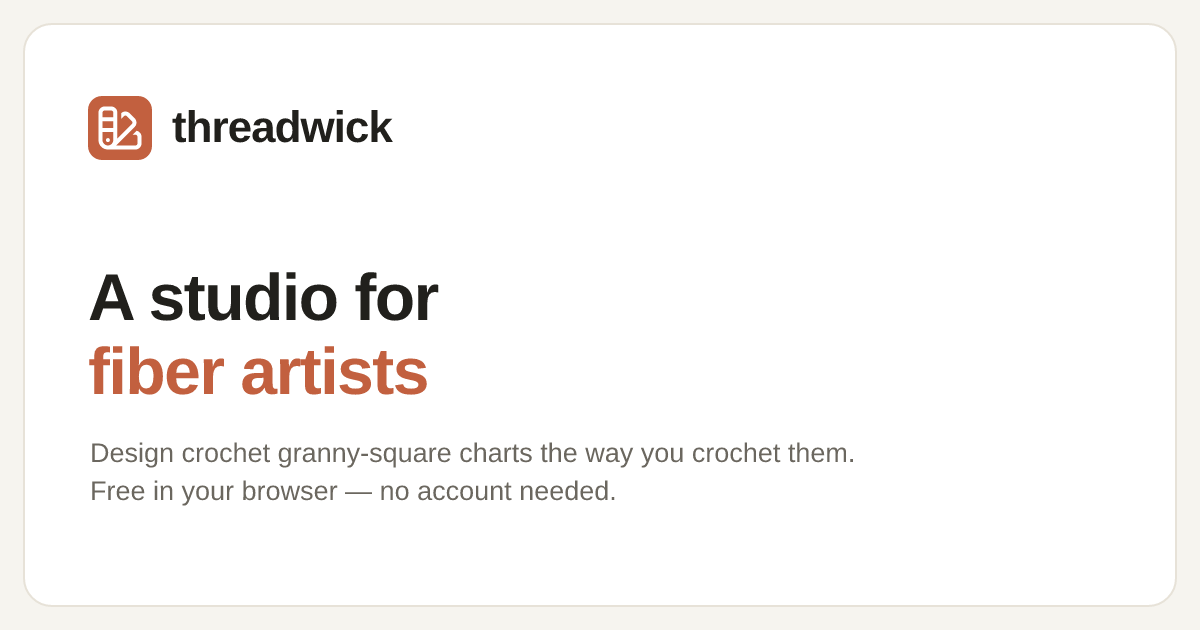
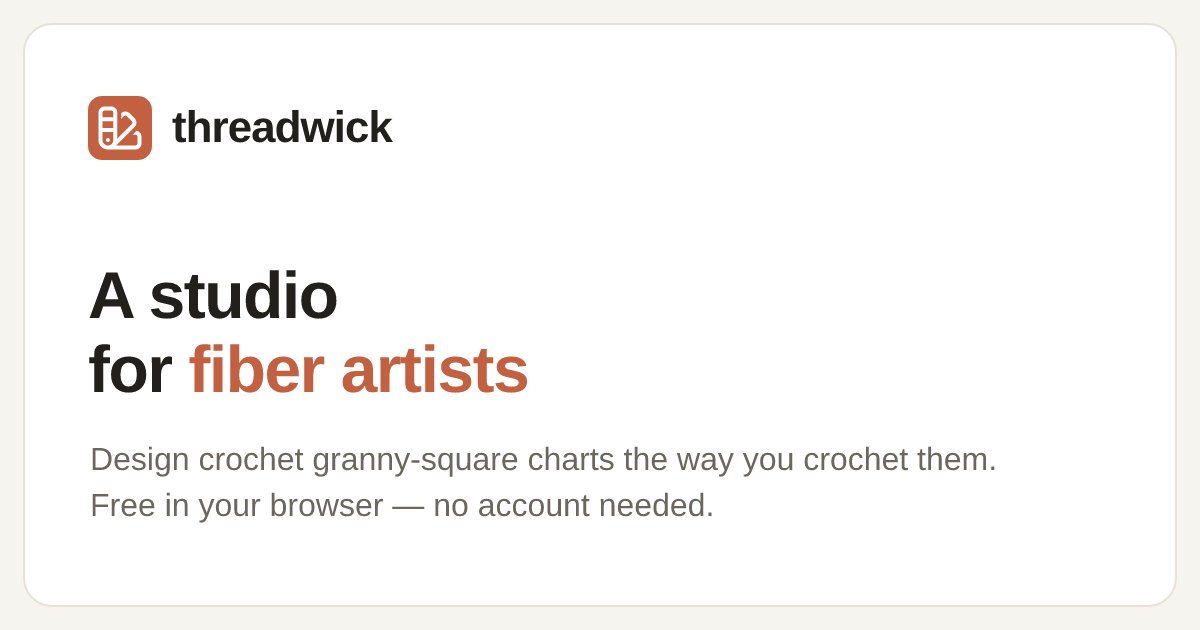
Left-align hero; refine social card headline + subtext
- Hero: switch from centered to left-aligned and bump the subcopy size for
  readability on small screens.
- Social card: move 'for' onto the 'fiber artists' line (kept black) and
  enlarge the supporting copy; regenerate og-image.png.

diff --git a/src/sections/Hero.tsx b/src/sections/Hero.tsx
@@ -8,68 +8,69 @@ const { Title, Paragraph } = Typography;
 export function Hero() {
   return (
     <section aria-labelledby="hero-title" className="tw-section">
-      <div className="tw-container" style={{ maxWidth: 820, textAlign: 'center' }}>
-        <p
-          style={{
-            margin: '0 0 14px',
-            textTransform: 'uppercase',
-            letterSpacing: '0.14em',
-            fontSize: 13,
-            fontWeight: 600,
-            color: colors.primaryActive,
-          }}
-        >
-          A studio for fiber artists
-        </p>
-
-        <Title
-          id="hero-title"
-          level={1}
-          style={{
-            margin: 0,
-            fontSize: 'clamp(36px, 6.5vw, 60px)',
-            lineHeight: 1.04,
-            letterSpacing: '-0.02em',
-          }}
-        >
-          Design your stitches the way you make them
-        </Title>
-
-        <Paragraph
-          style={{
-            margin: '20px auto 0',
-            maxWidth: 600,
-            fontSize: 'clamp(16px, 1.9vw, 19px)',
-            color: colors.textSecondary,
-          }}
-        >
-          Threadwick Studio is where you chart your designs stitch by stitch — and keep every project’s
-          patterns, yarns, links and notes together in one tidy place.
-        </Paragraph>
-
-        <div
-          style={{
-            marginTop: 30,
-            display: 'flex',
-            flexWrap: 'wrap',
-            alignItems: 'center',
-            justifyContent: 'center',
-            gap: 16,
-          }}
-        >
-          <OpenStudioButton size="large" />
-          <span
+      <div className="tw-container">
+        <div style={{ maxWidth: 780 }}>
+          <p
             style={{
-              display: 'inline-flex',
-              alignItems: 'center',
-              gap: 7,
-              color: colors.textTertiary,
-              fontSize: 14,
+              margin: '0 0 14px',
+              textTransform: 'uppercase',
+              letterSpacing: '0.14em',
+              fontSize: 13,
+              fontWeight: 600,
+              color: colors.primaryActive,
             }}
           >
-            <Lock aria-hidden width="1.05em" height="1.05em" />
-            Free in your browser — no account needed
-          </span>
+            A studio for fiber artists
+          </p>
+
+          <Title
+            id="hero-title"
+            level={1}
+            style={{
+              margin: 0,
+              fontSize: 'clamp(36px, 6.5vw, 60px)',
+              lineHeight: 1.04,
+              letterSpacing: '-0.02em',
+            }}
+          >
+            Design your stitches the way you make them
+          </Title>
+
+          <Paragraph
+            style={{
+              margin: '20px 0 0',
+              maxWidth: 600,
+              fontSize: 'clamp(18px, 2vw, 20px)',
+              color: colors.textSecondary,
+            }}
+          >
+            Threadwick Studio is where you chart your designs stitch by stitch — and keep every project’s
+            patterns, yarns, links and notes together in one tidy place.
+          </Paragraph>
+
+          <div
+            style={{
+              marginTop: 30,
+              display: 'flex',
+              flexWrap: 'wrap',
+              alignItems: 'center',
+              gap: 16,
+            }}
+          >
+            <OpenStudioButton size="large" />
+            <span
+              style={{
+                display: 'inline-flex',
+                alignItems: 'center',
+                gap: 7,
+                color: colors.textTertiary,
+                fontSize: 14,
+              }}
+            >
+              <Lock aria-hidden width="1.05em" height="1.05em" />
+              Free in your browser — no account needed
+            </span>
+          </div>
         </div>
       </div>
     </section>